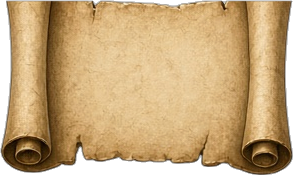
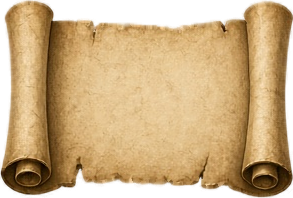
re-cut props+heroes (birefnet, polygons), whole bubble/compass/scroll, v=r7

diff --git a/js/art.js b/js/art.js
@@ -13,6 +13,7 @@ function spr(n,x,y,h,o){o=o||{};const i=UA[n];if(!okI(i))return 0;const w=h*i.na
 function nine(n,x,y,w,h,l,t,r,b,flip,cap){if(X.globalAlpha>=.05){FB.c.push({n:NTAG||n,b:lbox(x,y,x+w,y+h)});if(AUD)AUD.c.push({n:NTAG||n,b:tbox(x,y,x+w,y+h)})}const i=UA[n];if(!okI(i))return;const iw=i.naturalWidth,ih=i.naturalHeight;const k=Math.min(w/iw,h/ih,cap||1.6);
  const sx=[0,l*iw,iw-r*iw,iw],sy=[0,t*ih,ih-b*ih,ih],dx=[0,l*iw*k,w-r*iw*k,w],dy=[0,t*ih*k,h-b*ih*k,h];
  X.save();X.translate(x,y);if(flip){X.translate(w,0);X.scale(-1,1)}
+ if(n==='bubble'){X.drawImage(i,0,0,w,h);X.restore();return}// облачко: целиком, без нарезки — бугорки не размазываются
  for(let a=0;a<3;a++)for(let c=0;c<3;c++){const sw=sx[c+1]-sx[c],sh=sy[a+1]-sy[a],ddw=dx[c+1]-dx[c],ddh=dy[a+1]-dy[a];if(sw>0&&sh>0&&ddw>0&&ddh>0)X.drawImage(i,sx[c],sy[a],sw,sh,dx[c]-.5,dy[a]-.5,ddw+1,ddh+1)}
  X.restore()}
 const SL={frame:[.2,.26,.2,.26,1.3],scroll:[.2,.2,.2,.2,1.2],bubble:[.3,.3,.3,.42,1.1],plank:[.3,.3,.3,.3,1]};
@@ -54,7 +55,7 @@ function btn(id,x,y,w,h,label,fn,o){o=o||{};UI.push({id,x,y,w,h,fn,always:o.alwa
  X.save();X.translate(x,y);const sc=pr*(hov?1.06:1);X.scale(sc,sc);if(o.dis)X.globalAlpha*=.55;
  const round=w<=h*1.45;
  if(round){const d=Math.max(w,h)*1.25;
-  if(label==='⌂'){const c=UA.compass;if(okI(c)){const ww=d*1.25,hh=ww*c.naturalHeight/c.naturalWidth;X.rotate(Math.sin(T*1.2)*.04);dimg('compass',-ww/2,-hh/2,ww,hh)}}
+  if(label==='⌂'){const c=UA.compass;if(okI(c)){const ww=d*1.25,hh=ww*c.naturalHeight/c.naturalWidth;FB.c.push({n:'compass',b:lbox(-ww/2,-hh/2,ww/2,hh/2)});if(AUD)AUD.c.push({n:'compass',b:tbox(-ww/2,-hh/2,ww/2,hh/2)});X.rotate(Math.sin(T*1.2)*.04);dimg('compass',-ww/2,-hh/2,ww,hh)}}
   else{FB.c.push({n:'coinbtn',b:lbox(-d/2,-d/2,d/2,d/2)});if(AUD)AUD.c.push({n:'coinbtn',b:tbox(-d/2,-d/2,d/2,d/2)});dimg('coin',-d/2,-d/2,d,d*UA.coin.naturalHeight/Math.max(1,UA.coin.naturalWidth),{grey:o.dis});X.save();X.globalAlpha*=.5;dimg('coin',-d*.33,-d*.33,d*.66,d*.66);X.restore();txt(label,0,0,o.fs||d*.5,'#fff3c0',{st:'#4a2600',lw:(o.fs||d*.5)*.2})}}
  else{const hh=h*1.3,ww=w*1.15;win('plank',-ww/2,-hh/2,ww,hh);const fs=o.fs||Math.min(h*.5,34);txt(label,0,0,fs,'#fff0c8',{st:'#2a1004',lw:fs*.18,maxW:ww*.74})}
  X.restore()}
@@ -69,9 +70,9 @@ function drawParticles(){for(const p of PS){X.save();X.globalAlpha=Math.min(1,p.
  X.restore()}}
 // ---- облачко речи: пергаментный пузырь ----
 function ovl(a,b){return Math.max(0,Math.min(a[2],b[2])-Math.max(a[0],b[0]))*Math.max(0,Math.min(a[3],b[3])-Math.max(a[1],b[1]))}
-function bubbleCost(r,c){let o=0;for(const q of FBP.c)if(q.n!=='bubble')o+=ovl(r,q.b);for(const q of FBP.t)if(!q.bub)o+=ovl(r,q.b)*2;for(const q of FBP.h)o+=ovl(r,q.b);return o}
+function bubbleCost(r0,c){const r=[r0[0]-5,r0[1]-5,r0[2]+5,r0[3]+5];let o=0;for(const q of FBP.c)if(q.n!=='bubble')o+=ovl(r,q.b);for(const q of FBP.t)if(!q.bub)o+=ovl(r,q.b)*2;for(const q of FBP.h)o+=ovl(r,q.b);return o}
 function placeBubble(c,bw,bh){const v=vis();
- const hx=c?c.x:640,hy=c?c.y-c.h*.97:0;let best=null;const x0=v.x0+6,x1=v.x0+v.w-bw-6,y0=Math.max(v.y0+6,0),y1=v.y0+v.h-bh-6;
+ const hx=c?c.x:640,hy=c?c.y-c.h*.97:0;let best=null;const sl=v.x0+(typeof SAFE!=='undefined'?SAFE.l/S:0),sr=v.x0+v.w-(typeof SAFE!=='undefined'?SAFE.r/S:0),st=v.y0+(typeof SAFE!=='undefined'?SAFE.t/S:0),sb=v.y0+v.h-(typeof SAFE!=='undefined'?SAFE.b/S:0);const x0=sl+6,x1=sr-bw-6,y0=st+6,y1=sb-bh-6;
  for(let by=y0;by<=y1+.1;by+=Math.max(8,(y1-y0)/36))for(let bx=x0;bx<=x1+.1;bx+=Math.max(8,(x1-x0)/60)){const r=[bx,by,bx+bw,by+bh];const o=bubbleCost(r,c);
   const fl=c?hx>bx+bw/2:false,tx=fl?bx+bw*.85:bx+bw*.15,ty=by+bh;const d=c?Math.hypot(tx-hx,ty-hy):Math.abs(bx+bw/2-640)+by;const sc=o*40+d;if(!best||sc<best[4])best=[bx,by,fl,o,sc]}
  if(!best)best=[640-bw/2,8,false,1e9,0];return best}

diff --git a/js/levels.js b/js/levels.js
@@ -68,7 +68,7 @@ function levelScene(n){SC['l'+n]={enter(){if(LV&&LV.n===n&&LV.resume){LV.resume=
   if(LV.banner){const b=LV.banner;X.font='26px '+FONT;const L=wrap(b.t,640),w=Math.max(...L.map(l=>X.measureText(l).width))+120,h=L.length*33+78,y=Math.min(b.y||100,712-h);
    X.globalAlpha=ease((T-b.t0)*4);win(b.bad?'frame':'scroll',640-w/2,y,w,h);L.forEach((l,i)=>ink(l,640,y+h/2-(L.length-1)*16.5+i*33,26,{col:b.bad?'#8a1a08':'#4a2208'}));X.globalAlpha=1}},
  ui(){win('scroll',450,0,380,64);ink(LNAMES[n-1],640,32,28);for(let i=0;i<ROUNDS[n-1];i++)coinTok(640-(ROUNDS[n-1]-1)*17+i*34,82,12,{grey:i>=LV.r});
-  btn('home',62,48,84,64,'⌂',()=>{go('map')},{always:1});if(!LV.done)btn('hint',1218,48,76,64,'?',()=>{if(!G.busy)run(()=>DEF[n].hint(LV))},{fs:36});
+  btn('home',74,66,84,64,'⌂',()=>{go('map')},{always:1});if(!LV.done)btn('hint',1214,58,76,64,'?',()=>{if(!G.busy)run(()=>DEF[n].hint(LV))},{fs:36});
   if(DEF[n].ui&&!LV.done)DEF[n].ui(LV);if(LV.done)endPanel(n)},
  tap(x,y){if(LV.done)return;if(n<5&&!SV.secret[n-1]&&!G.busy){const[sx,sy]=SECRET_POS[n-1];if(Math.hypot(x-sx,y-sy)<40){LV.resume=true;go('secret',n);return}}if(DEF[n].tap)DEF[n].tap(LV,x,y)}}}
 function banner(t,bad,y){LV.banner={t,bad,t0:T,y}}
@@ -178,7 +178,7 @@ DEF[4]={init(L){L.cast=[{n:'tim',x:100,y:712,h:220},{n:'mey',x:1170,y:712,h:250,
    if(res){SFX.star();cheer();mood('mey','laugh');await say('l4win');if(!L.shownMap){L.shownMap=1;L.reveal=true;await say('l4map');await wait(1500)}L.lv++;if(await roundDone())return}
    else{SFX.bad();await say('l4lose');L.reveal=true;await say(rule==='king'?'l4h':'l4rh')}}},
  async hint(L){L.reveal=true;await say(L.g&&L.g.rule==='rook'?'l4rh':'l4h')},
- draw(L){drawGrid(L);if(L.turn||L.choose||L.myTurn)win('plank',125,4,250,62);if(L.turn||L.choose||L.myTurn)txt(L.myTurn?'Твой ход':'Ходит Мэй',250,35,28,L.myTurn?'#ffe066':'#fff0c8',{st:'#2a1004'});
+ draw(L){drawGrid(L);if(L.turn||L.choose||L.myTurn)win('plank',150,6,250,62);if(L.turn||L.choose||L.myTurn)txt(L.myTurn?'Твой ход':'Ходит Мэй',275,37,28,L.myTurn?'#ffe066':'#fff0c8',{st:'#2a1004'});
   if(L.g){win('scroll',930,150,330,110);para(L.g.rule==='king'?'На 1 клетку влево, вниз или наискосок':'Влево или вниз на сколько угодно',1095,205,250,22)}},
  tap(L,x,y){gridTap(L,x,y)},
  info(L){return{r:L.r,g:L.g,my:!!L.myTurn}}};levelScene(4);
@@ -202,7 +202,7 @@ DEF[5]={init(L){L.cast=[{n:'tim',x:100,y:712,h:220},{n:'flint',x:1140,y:712,h:33
   else{win('frame',BOSS_GB.x-GW*BOSS_GB.c/2-50,BOSS_GB.y-GH*BOSS_GB.c/2-46,GW*BOSS_GB.c+100,GH*BOSS_GB.c+92);drawGrid(L,BOSS_GB)}
   win('scroll',930,150,330,110);para({sub2:'Берём 1 или 2',sub3:'Берём от 1 до 3',king:'На 1 клетку влево, вниз или наискосок',rook:'Влево или вниз на сколько угодно'}[L.kd],1095,205,250,22);
   if(L.turn||L.choose)win('plank',30,150,250,70);if(L.turn||L.choose)txt(L.choose?'Кто ходит?':L.myTurn?'Твой ход':'Ходит Флинт',155,185,28,L.myTurn||L.choose?'#ffe066':'#fff0c8',{st:'#2a1004'});
-  win('scroll',125,4,250,62);for(let i=0;i<3;i++)spr('chest',185+i*65,35,40,{grey:i>=L.hp})},
+  win('scroll',150,6,250,62);for(let i=0;i<3;i++)spr('chest',210+i*65,37,40,{grey:i>=L.hp})},
  ui(L){if(L.choose){btn('first',470,650,280,74,'Хожу первым',()=>give(L,true),{fs:30});btn('second',810,650,280,74,'Ходи, Флинт',()=>give(L,false),{fs:30})}
   else if(L.myTurn&&L.g.t==='sub')for(let t=1;t<=L.g.k;t++)btn('t'+t,640+(t-(L.g.k+1)/2)*230,650,200,74,'Взять '+t,()=>{if(t<=L.g.n)give(L,{...L.g,n:L.g.n-t})},{dis:t>L.g.n,fs:32})},
  tap(L,x,y){if(L.g&&L.g.t==='grid')gridTap(L,x,y,BOSS_GB)},

diff --git a/index.html b/index.html
@@ -2,8 +2,8 @@
 <link rel="manifest" href="manifest.json"><meta name="mobile-web-app-capable" content="yes"><meta name="apple-mobile-web-app-capable" content="yes"><meta name="apple-mobile-web-app-status-bar-style" content="black-translucent"><meta name="apple-mobile-web-app-title" content="Остров"><link rel="apple-touch-icon" href="assets/ui/icon180.png"><meta name="theme-color" content="#3a2410">
 <meta name="viewport" content="width=device-width,initial-scale=1,maximum-scale=1,user-scalable=no,viewport-fit=cover">
 <title>Остров хитрых игр — игры и выигрышная стратегия</title>
-<link rel="stylesheet" href="fonts/fonts.css?v=20261015r6">
-<style>html,body{margin:0;position:fixed;inset:0;width:100%;height:100%;height:100dvh;overscroll-behavior:none;background:#3a2410 url(assets/bg_title.jpg?v=20261015r6) center/cover no-repeat fixed;overflow:hidden;touch-action:none;-webkit-user-select:none;user-select:none}
+<link rel="stylesheet" href="fonts/fonts.css?v=20261015r7">
+<style>html,body{margin:0;position:fixed;inset:0;width:100%;height:100%;height:100dvh;overscroll-behavior:none;background:#3a2410 url(assets/bg_title.jpg?v=20261015r7) center/cover no-repeat fixed;overflow:hidden;touch-action:none;-webkit-user-select:none;user-select:none}
 canvas{position:fixed;left:0;top:0;width:100vw;height:100vh;height:100dvh;display:block;touch-action:none}</style></head>
 <body><canvas id="c"></canvas>
-<script id="vboot">window.V="20261015r6";(function(){const q=u=>(typeof u==="string"&&/^(assets|fonts|js)\//.test(u)&&u.indexOf("?v=")<0)?u+"?v="+window.V:u;const d=Object.getOwnPropertyDescriptor(HTMLMediaElement.prototype,"src"),di=Object.getOwnPropertyDescriptor(HTMLImageElement.prototype,"src");Object.defineProperty(HTMLImageElement.prototype,"src",{set(u){di.set.call(this,q(u))},get(){return di.get.call(this)}});Object.defineProperty(HTMLMediaElement.prototype,"src",{set(u){d.set.call(this,q(u))},get(){return d.get.call(this)}});const A=window.Audio;window.Audio=function(u){return u===undefined?new A():new A(q(u))};window.Audio.prototype=A.prototype;const F=window.fetch;window.fetch=(u,o)=>F(q(u),o)})()</script><script src="js/voice.js?v=20261015r6"></script><script src="js/lines.js?v=20261015r6"></script><script src="js/core.js?v=20261015r6"></script><script src="js/rig.js?v=20261015r6"></script><script src="js/levels.js?v=20261015r6"></script><script src="js/art.js?v=20261015r6"></script></body></html>
+<script id="vboot">window.V="20261015r7";(function(){const q=u=>(typeof u==="string"&&/^(assets|fonts|js)\//.test(u)&&u.indexOf("?v=")<0)?u+"?v="+window.V:u;const d=Object.getOwnPropertyDescriptor(HTMLMediaElement.prototype,"src"),di=Object.getOwnPropertyDescriptor(HTMLImageElement.prototype,"src");Object.defineProperty(HTMLImageElement.prototype,"src",{set(u){di.set.call(this,q(u))},get(){return di.get.call(this)}});Object.defineProperty(HTMLMediaElement.prototype,"src",{set(u){d.set.call(this,q(u))},get(){return d.get.call(this)}});const A=window.Audio;window.Audio=function(u){return u===undefined?new A():new A(q(u))};window.Audio.prototype=A.prototype;const F=window.fetch;window.fetch=(u,o)=>F(q(u),o)})()</script><script src="js/voice.js?v=20261015r7"></script><script src="js/lines.js?v=20261015r7"></script><script src="js/core.js?v=20261015r7"></script><script src="js/rig.js?v=20261015r7"></script><script src="js/levels.js?v=20261015r7"></script><script src="js/art.js?v=20261015r7"></script></body></html>
